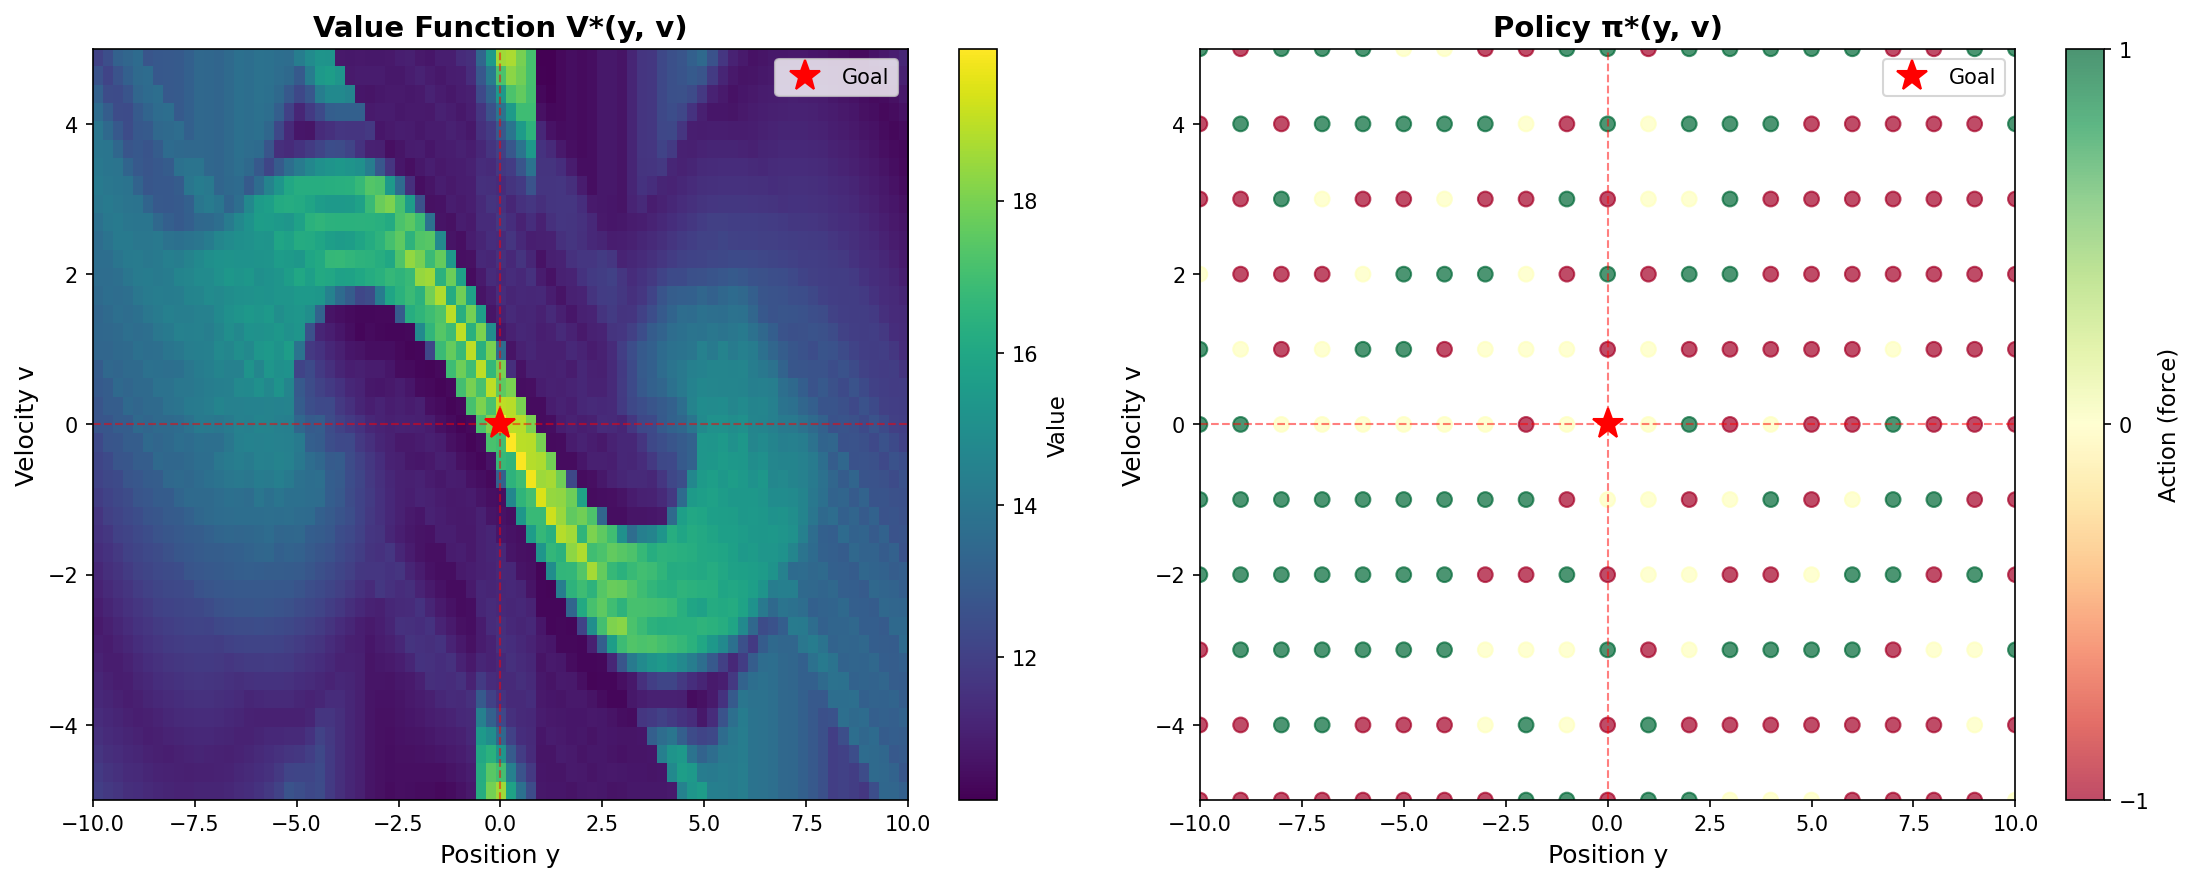
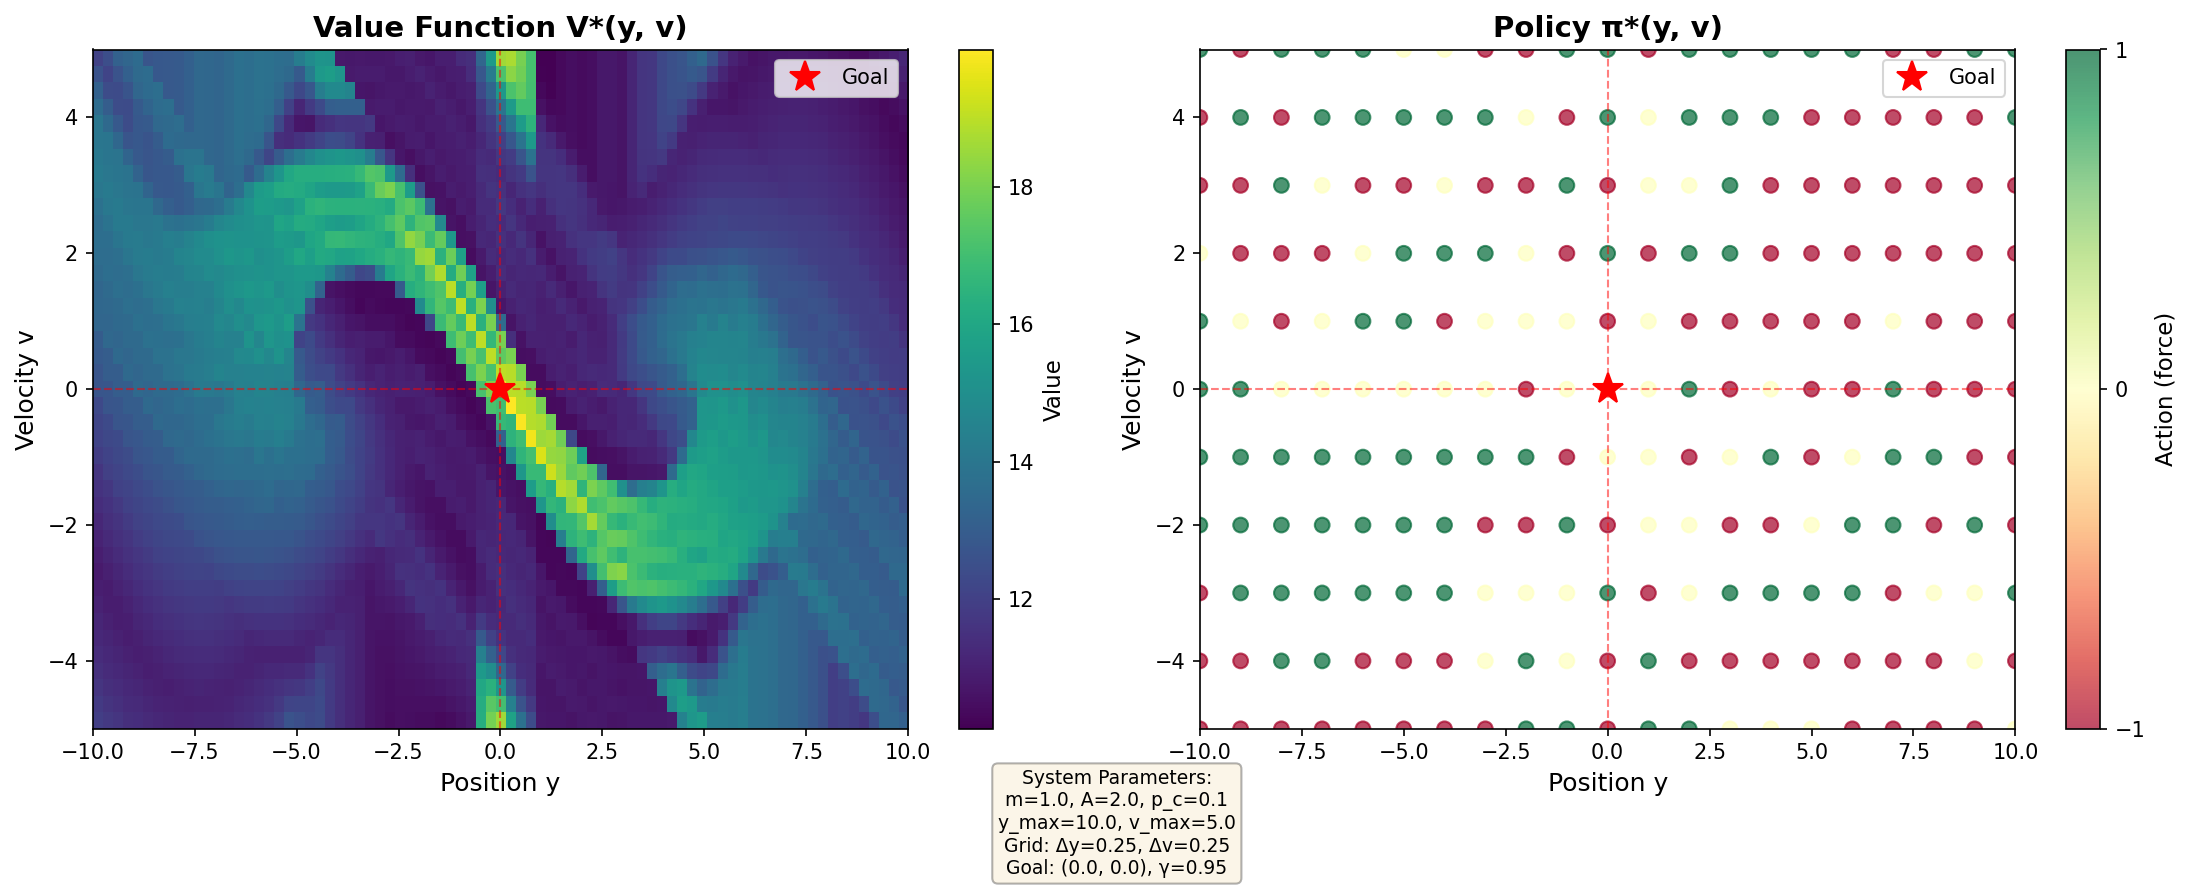
new images

diff --git a/main.py b/main.py
@@ -462,13 +462,26 @@ def visualize_policy(vi, grid_sys, save_path="policy_visualization.png"):
     cbar2.set_ticks([-1, 0, 1])
     ax2.legend()
 
-    plt.tight_layout()
+    # Add parameter information as text box
+    param_text = (
+        f"System Parameters:\n"
+        f"m={grid_sys.continuous.m}, A={grid_sys.continuous.A}, p_c={grid_sys.continuous.p_c}\n"
+        f"y_max={grid_sys.continuous.y_max}, v_max={grid_sys.continuous.v_max}\n"
+        f"Grid: Δy={grid_sys.delta_y}, Δv={grid_sys.delta_v}\n"
+        f"Goal: ({grid_sys.goal_y}, {grid_sys.goal_v}), γ={vi.gamma}"
+    )
+    fig.text(
+        0.5, 0.02, param_text, ha="center", fontsize=9,
+        bbox=dict(boxstyle="round", facecolor="wheat", alpha=0.3)
+    )
+
+    plt.tight_layout(rect=[0, 0.08, 1, 1])  # Make room for parameter text
     plt.savefig(save_path, dpi=150, bbox_inches="tight")
     print(f"Policy visualization saved to {save_path}")
     plt.show()
 
 
-def plot_trajectory(trajectory, save_path="trajectory.png"):
+def plot_trajectory(trajectory, continuous_sys=None, grid_sys=None, save_path="trajectory.png"):
     """Plot state trajectory over time"""
     y_vals = [s[0] for s in trajectory]
     v_vals = [s[1] for s in trajectory]
@@ -503,13 +516,28 @@ def plot_trajectory(trajectory, save_path="trajectory.png"):
     axes[2].legend()
     axes[2].axis("equal")
 
-    plt.tight_layout()
+    # Add parameter information if provided
+    if continuous_sys is not None:
+        param_text = (
+            f"System Parameters: m={continuous_sys.m}, A={continuous_sys.A}, "
+            f"p_c={continuous_sys.p_c}, y_max={continuous_sys.y_max}, v_max={continuous_sys.v_max}"
+        )
+        if grid_sys is not None:
+            param_text += f"\nGrid: Δy={grid_sys.delta_y}, Δv={grid_sys.delta_v}"
+        fig.text(
+            0.5, 0.02, param_text, ha="center", fontsize=9,
+            bbox=dict(boxstyle="round", facecolor="wheat", alpha=0.3)
+        )
+        plt.tight_layout(rect=[0, 0.06, 1, 1])
+    else:
+        plt.tight_layout()
+    
     plt.savefig(save_path, dpi=150, bbox_inches="tight")
     print(f"Trajectory plot saved to {save_path}")
     plt.show()
 
 
-def plot_convergence(results_by_resolution):
+def plot_convergence(results_by_resolution, continuous_sys=None, gamma=None):
     """Plot how performance varies with grid resolution"""
     resolutions = sorted(results_by_resolution.keys())
     success_rates = [results_by_resolution[r]["success_rate"] for r in resolutions]
@@ -530,7 +558,22 @@ def plot_convergence(results_by_resolution):
     ax2.set_title("Efficiency vs Resolution", fontsize=14, fontweight="bold")
     ax2.grid(True, alpha=0.3)
 
-    plt.tight_layout()
+    # Add parameter information if provided
+    if continuous_sys is not None:
+        param_text = (
+            f"System Parameters: m={continuous_sys.m}, A={continuous_sys.A}, "
+            f"p_c={continuous_sys.p_c}, y_max={continuous_sys.y_max}, v_max={continuous_sys.v_max}"
+        )
+        if gamma is not None:
+            param_text += f", γ={gamma}"
+        fig.text(
+            0.5, 0.02, param_text, ha="center", fontsize=9,
+            bbox=dict(boxstyle="round", facecolor="wheat", alpha=0.3)
+        )
+        plt.tight_layout(rect=[0, 0.06, 1, 1])
+    else:
+        plt.tight_layout()
+    
     plt.savefig("resolution_analysis.png", dpi=150, bbox_inches="tight")
     print("Resolution analysis saved to resolution_analysis.png")
     plt.show()
@@ -641,7 +684,7 @@ def main():
     print("Creating visualizations...")
 
     visualize_policy(vi, grid_sys)
-    plot_trajectory(trajectory)
+    plot_trajectory(trajectory, continuous_sys, grid_sys)
 
     print("\n" + "=" * 60)
     print("✓ COMPLETE")
@@ -697,7 +740,7 @@ def resolution_experiment():
         print(f"  Success Rate: {results['success_rate'] * 100:.1f}%")
         print(f"  Avg Steps (success): {results['avg_steps_success']:.1f}")
 
-    plot_convergence(results_by_res)
+    plot_convergence(results_by_res, continuous_sys, gamma=0.95)
 
     return results_by_res
 
